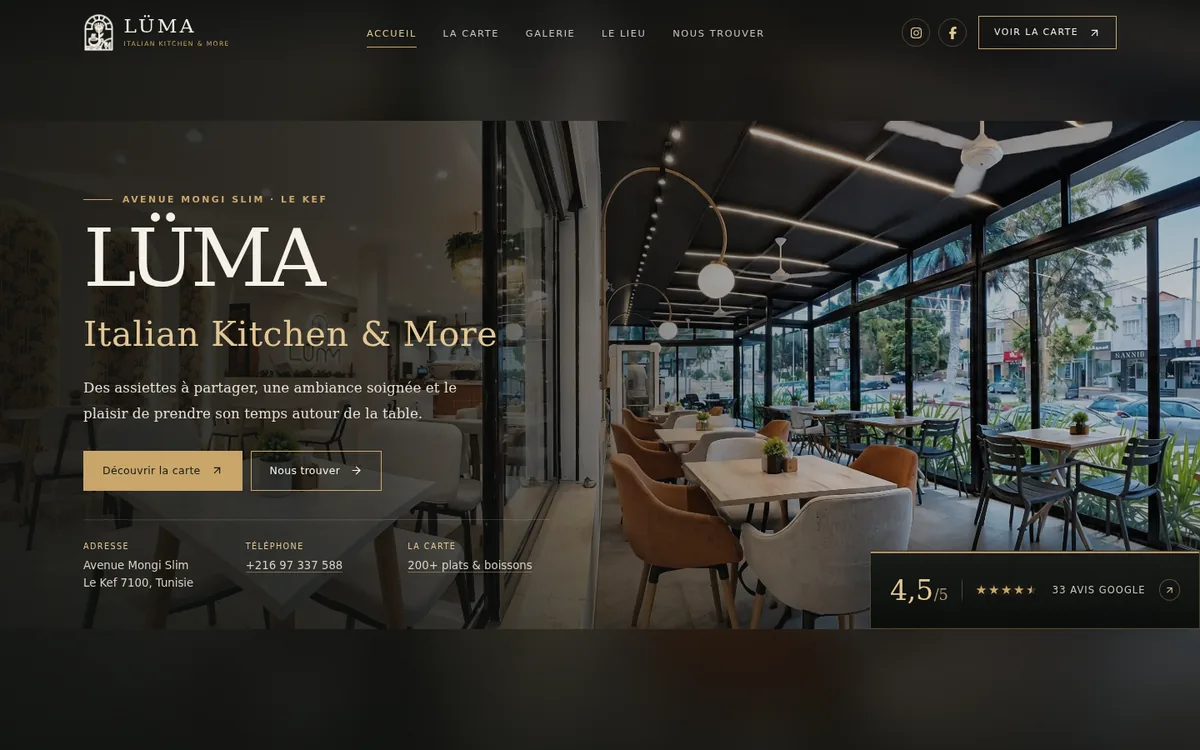
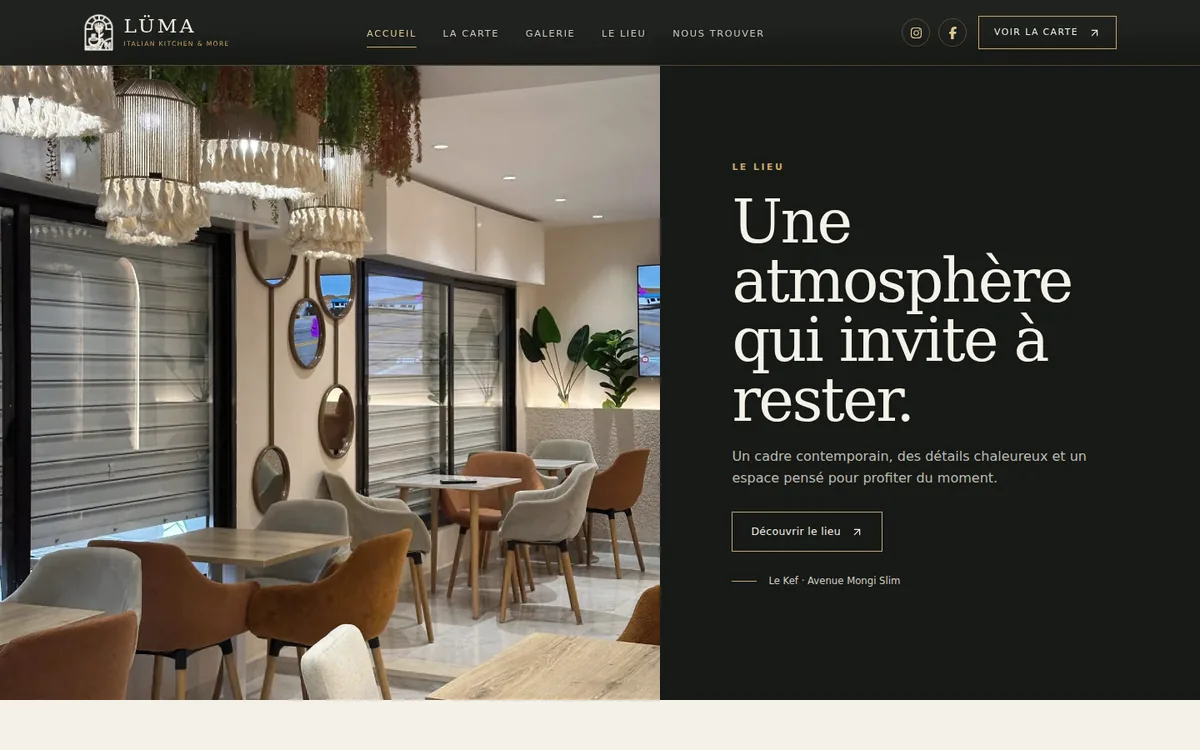
Use stronger project screenshots

diff --git a/README.md b/README.md
@@ -25,9 +25,11 @@ boundaries, and documentation that matches the code.
 
 ### 01 — Café Foundou · QR menu & owner dashboard
 
-<a href="https://cafefoundou.tn/">
-  <img src="./assets/foundou-menu.webp" alt="Café Foundou digital menu" width="100%">
-</a>
+<p align="center">
+  <a href="https://cafefoundou.tn/">
+    <img src="./assets/foundou-menu.webp" alt="Café Foundou mobile menu" width="340">
+  </a>
+</p>
 
 `React 19` `TypeScript` `Vite` `Supabase` `Vitest` `Playwright` · **[cafefoundou.tn](https://cafefoundou.tn/)**
 
@@ -52,7 +54,7 @@ mobile-first menu; the owner signs in to a private editor and changes go live on
 ### 02 — LÜMA · Italian kitchen website
 
 <a href="https://m-stoufa.github.io/LumaRestaurant/">
-  <img src="./assets/luma-site.webp" alt="LÜMA Italian Kitchen website" width="100%">
+  <img src="./assets/luma-site.webp" alt="LÜMA restaurant interior and atmosphere section" width="100%">
 </a>
 
 `HTML5` `CSS3` `JavaScript` · **[Live demo](https://m-stoufa.github.io/LumaRestaurant/)** · **[Repository](https://github.com/M-Stoufa/LumaRestaurant)**
@@ -71,7 +73,7 @@ restaurant's own photos, menu screenshots and confirmed business details.
 
 ### 03 — Salon de Thé Caramel · tea salon website
 
-<img src="./assets/caramel-site.webp" alt="Salon de Thé Caramel website" width="100%">
+<img src="./assets/caramel-site.webp" alt="Salon de Thé Caramel photo gallery section" width="100%">
 
 `HTML5` `CSS3` `JavaScript` `Python tooling` · *Private client build*
 
